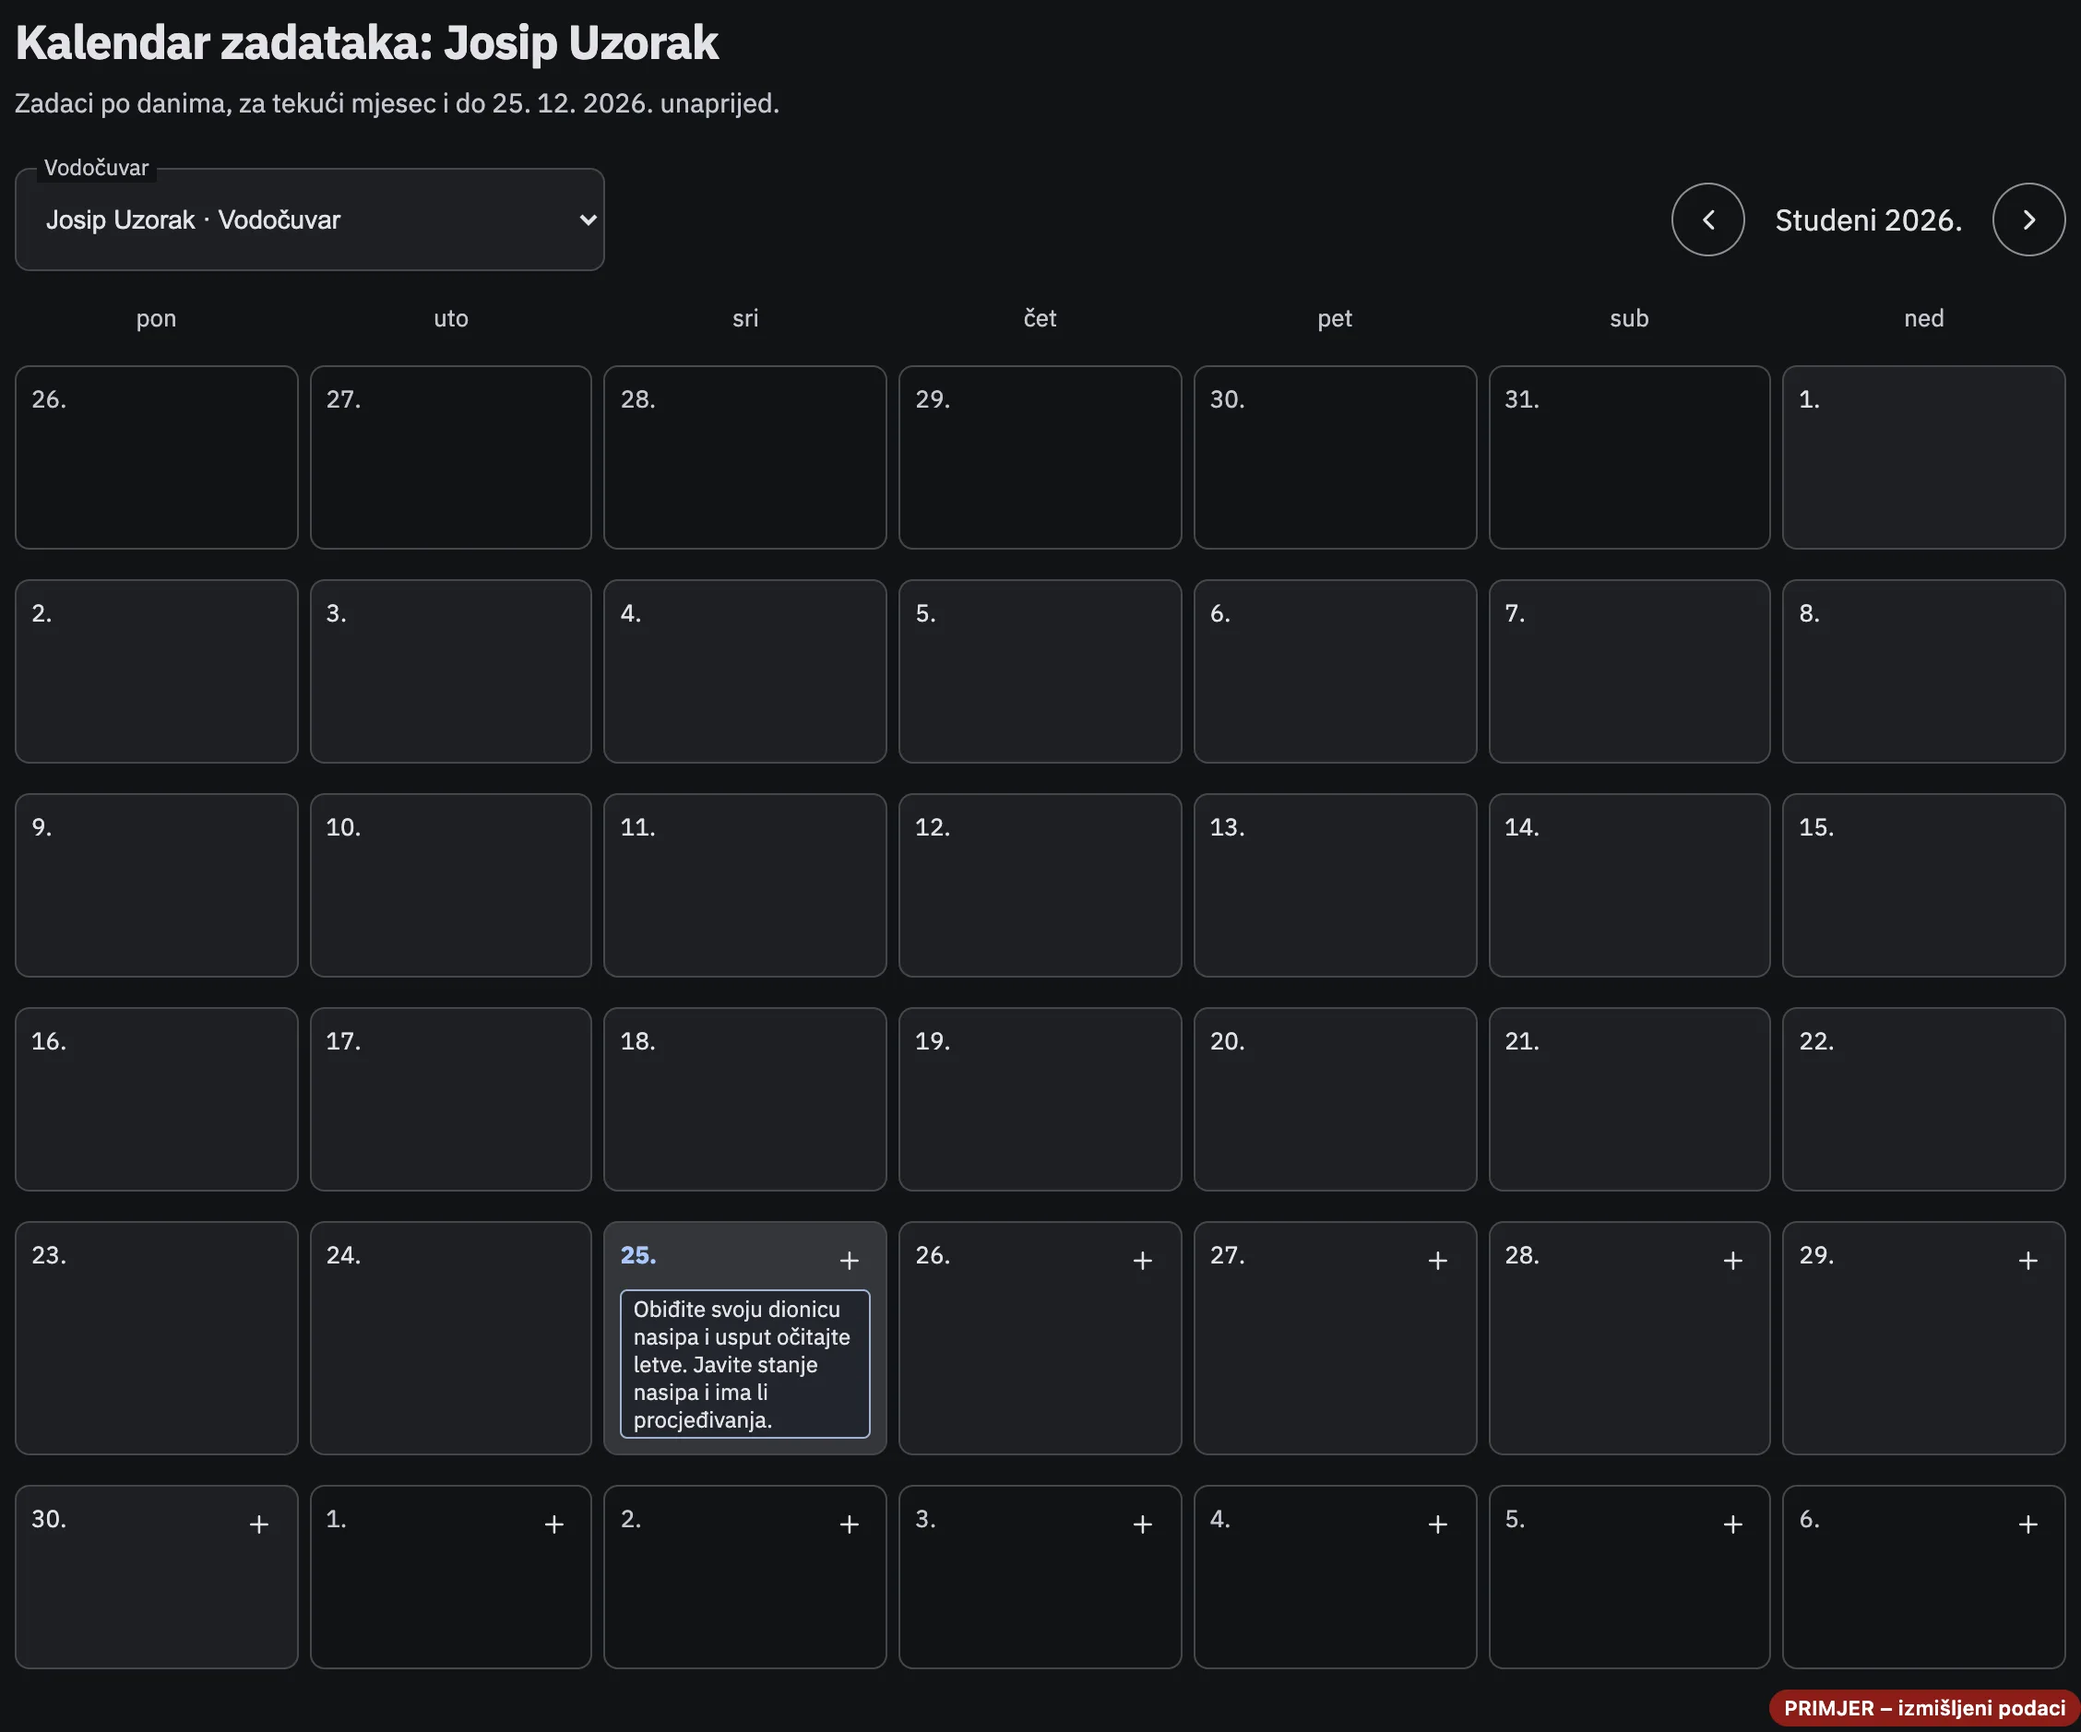
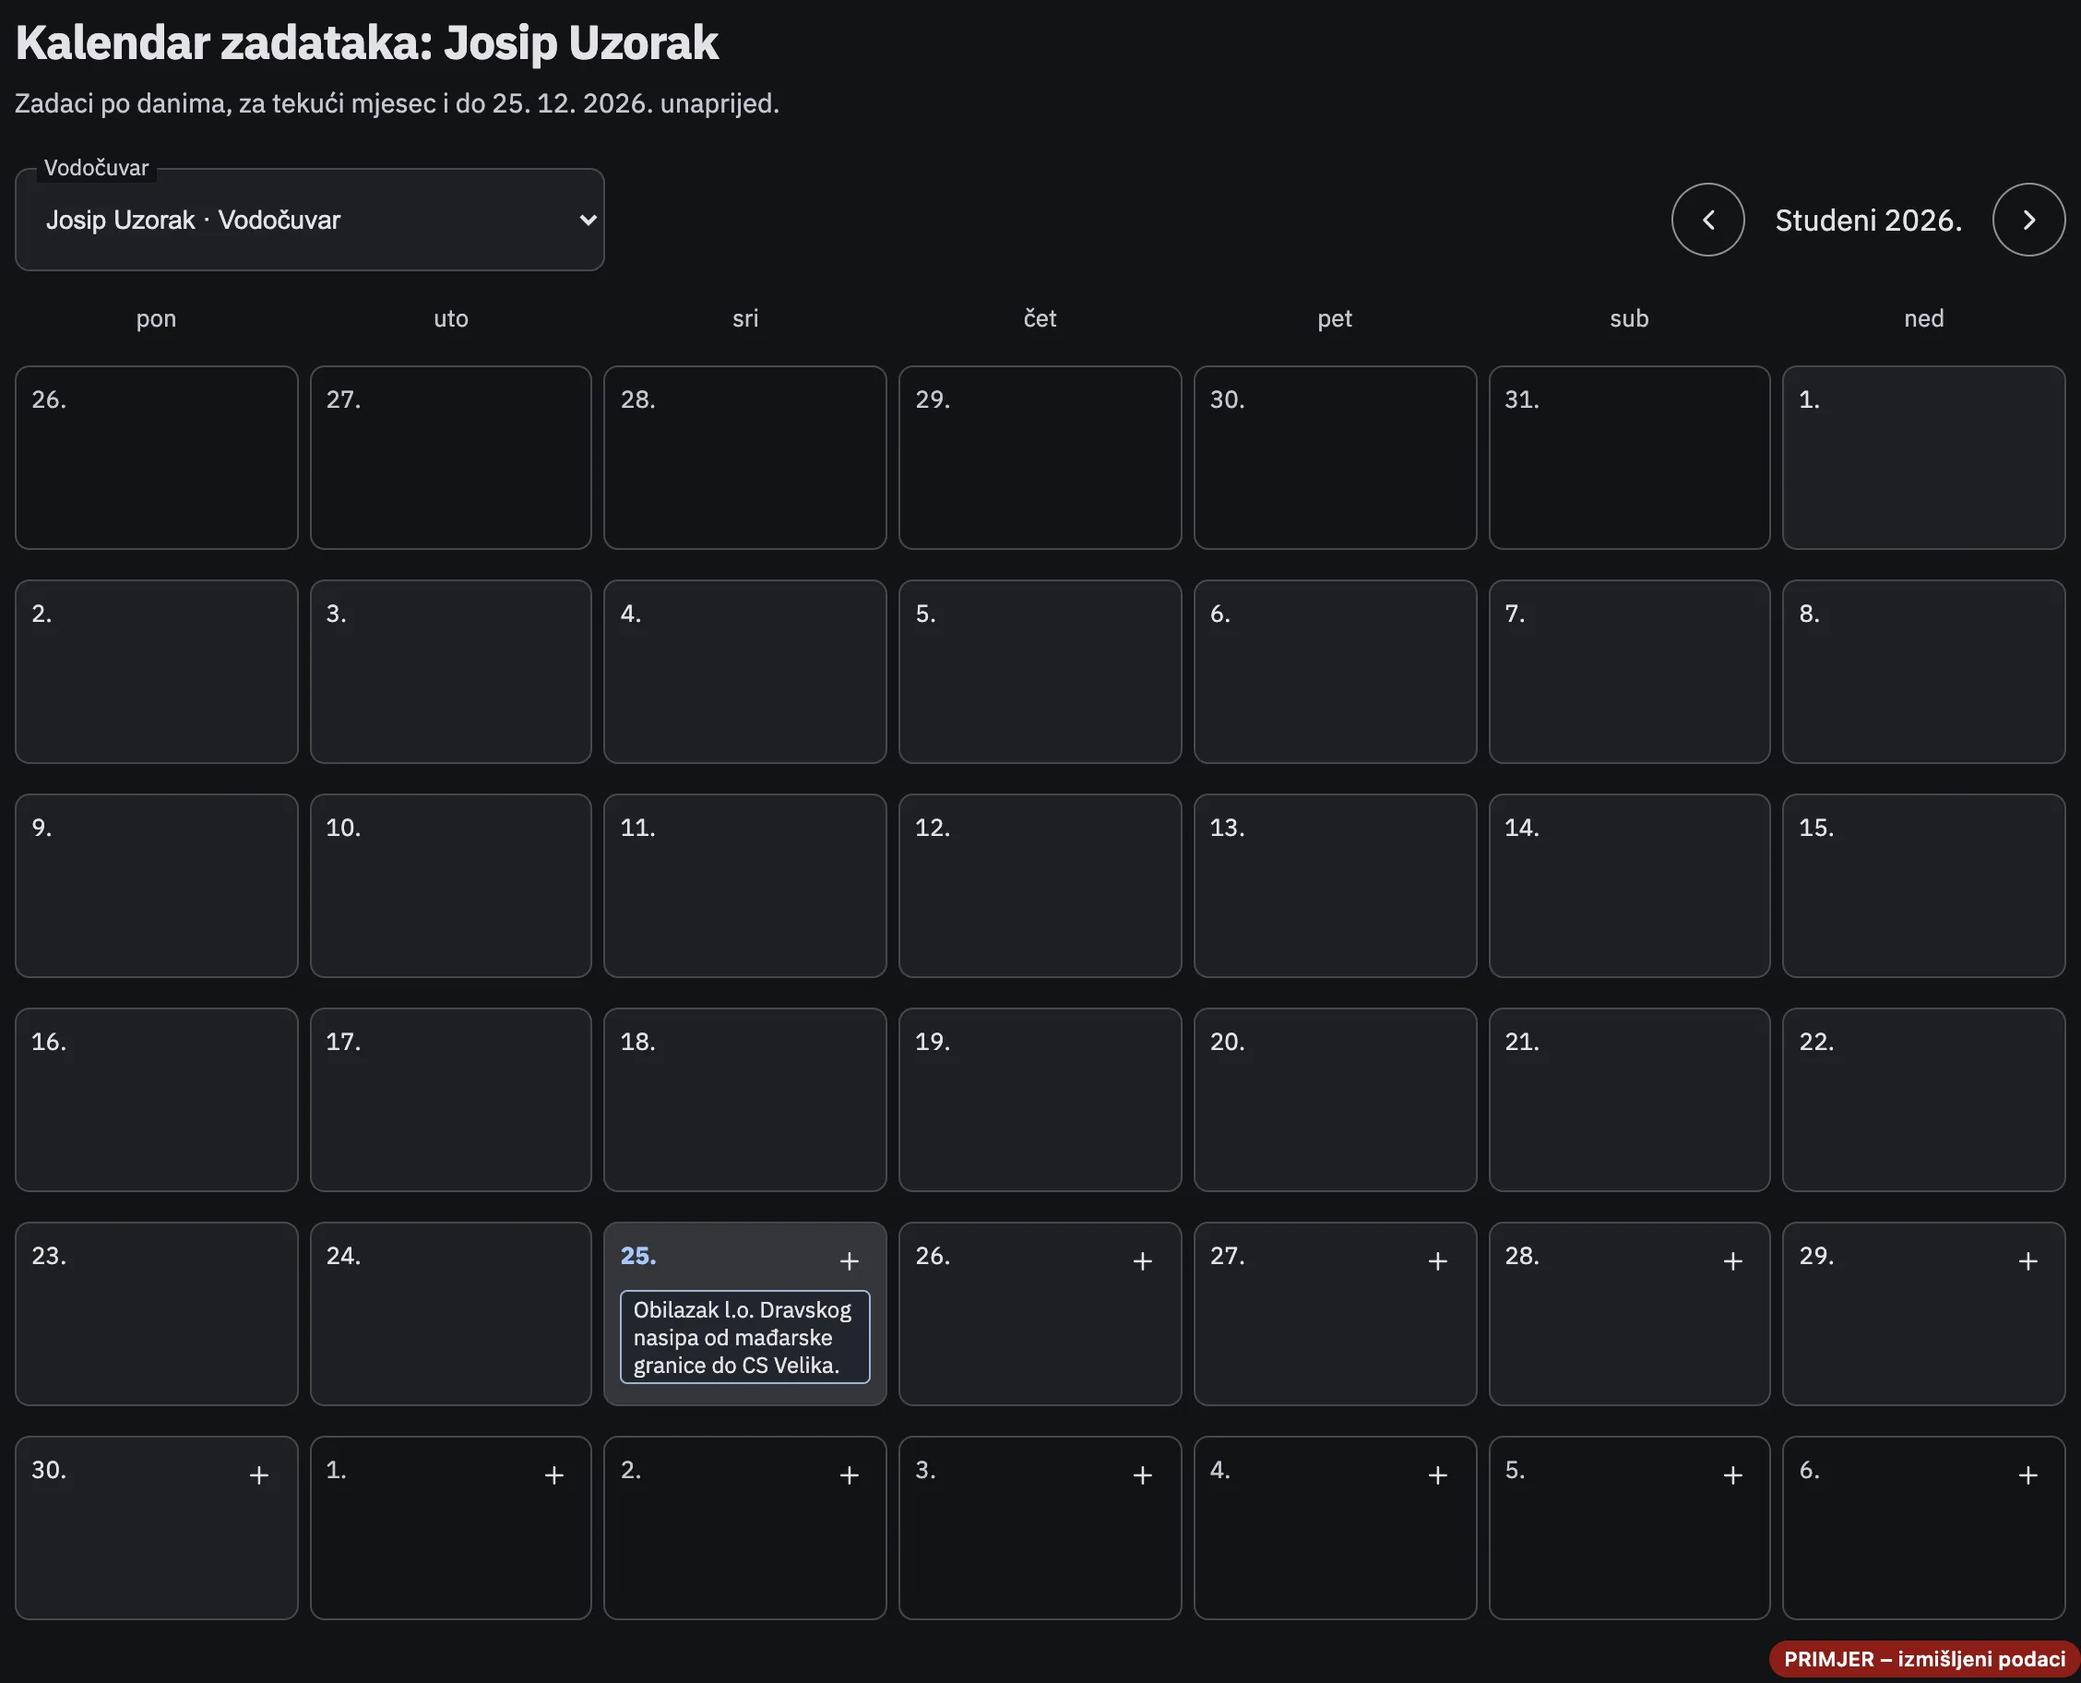
Pomoć, Vodočuvarski dnevnik: primjer zadatka s terena
Primjer zadatka na slikama i u tekstu sad je stvaran nalog: Obilazak l.o.
Dravskog nasipa od mađarske granice do CS Velika. Uz to stoji da se letve
uz put zadatka očitavaju i upisuju.

diff --git a/web/templates/pomoc.html b/web/templates/pomoc.html
@@ -1823,23 +1823,24 @@
         Vodostaje koje ste taj dan očitali ne prepisujete: upisuju se sami.</li>
       <li>Na kraju dana pritisnite <em>Potpiši i predaj</em>.</li>
     </ol>
-    {{template "pomocSlika" (list "vodocuvar-naslovna" "Naslovna vodočuvara na mobitelu: kartica Dnevni list s gumbom Otvori list, a ispod kartica Zadaci rukovoditelja s jednim zadatkom, obilaskom dionice." "359")}}
-    {{template "pomocSlika" (list "vodocuvar-list-vrh" "Dnevni list u pisanju na mobitelu: početak rada 07:00, svršetak 15:00, vremenske prilike, a pod Naredbe rukovoditelja zadatak s označenim obavljeno i upisom što je napravljeno." "359")}}
+    {{template "pomocSlika" (list "vodocuvar-naslovna" "Naslovna vodočuvara na mobitelu: kartica Dnevni list s gumbom Otvori list, a ispod kartica Zadaci rukovoditelja sa zadatkom Obilazak l.o. Dravskog nasipa od mađarske granice do CS Velika." "359")}}
+    {{template "pomocSlika" (list "vodocuvar-list-vrh" "Dnevni list u pisanju na mobitelu: početak rada 07:00, svršetak 15:00, vremenske prilike, a pod Naredbe rukovoditelja zadatak obilaska Dravskog nasipa s označenim obavljeno i upisom što je napravljeno." "359")}}
     <p><em>Spremi</em> sprema list kao nacrt, pa ga tijekom dana možete dopunjavati.
       <em>Potpiši i predaj</em> list elektronički potpisuje vašim ključem; <em>Lozinka za
       potpis</em> ga otključava i ne sprema se. Predan list više se ne mijenja. Ako predaja nije
       dopuštena, npr. jer fali opis rada ili zadatak nije obavljen a nije obrazložen zašto,
       upisano ostaje spremljeno kao nacrt, a poruka kaže što treba dopuniti.</p>
     {{template "pomocSlika" (list "vodocuvar-list-dno" "Dno dnevnog lista na mobitelu: upisan opis radnih aktivnosti, prazna posebna zapažanja, rečenica da se današnji vodostaji upisuju sami, te gumbi Potpiši i predaj i Spremi." "359")}}
-    <p><strong>Zadaci i kalendar.</strong> Zadatak je nalog rukovoditelja za određeni dan: npr.
-      obilazak dionice, pregled objekta ili očitanje letava usput. Zadatak koji nije obavljen, a
+    <p><strong>Zadaci i kalendar.</strong> Zadatak je nalog rukovoditelja za određeni dan, npr.
+      <em>Obilazak l.o. Dravskog nasipa od mađarske granice do CS Velika.</em> Letve uz put
+      zadatka očitajte i upišite. Zadatak koji nije obavljen, a
       označite da se prenosi, uz obrazloženje prelazi na sljedeći list.</p>
     <p>Kalendar zadataka pokazuje zadatke po danima. Zadatak stoji na dnevnom listu od planiranog
       dana, a neobavljeni se prenosi dalje. Tko smije zadavati zadatke, zadaje ih na + u danu. Prošli
       dani i dani dalje od 30 dana nemaju +, a vodočuvar koji vodi samo svoju knjigu nema ga uopće.</p>
     <p>Na mobitelu je kalendar popis dana: danas i tri sljedeća dana, a ostali su sklopljeni. Dan
       sa zadatkom uvijek se vidi. Prošli dani otvaraju se sami kad u njima ima otvoren zadatak.</p>
-    {{template "pomocSlika" (list "vodocuvar-kalendar" "Kalendar zadataka vodočuvara na računalu, kako ga vidi rukovoditelj: mjesec po danima, na današnjem danu zadatak obilaska dionice, a od danas do 30 dana unaprijed uz svaki dan + za novi zadatak." "736")}}
+    {{template "pomocSlika" (list "vodocuvar-kalendar" "Kalendar zadataka vodočuvara na računalu, kako ga vidi rukovoditelj: mjesec po danima, na današnjem danu zadatak obilaska Dravskog nasipa, a od danas do 30 dana unaprijed uz svaki dan + za novi zadatak." "736")}}
     <p><strong>Predaja i ovjera.</strong></p>
     <p>Vodočuvar list predaje osobnim elektroničkim potpisom, a rukovoditelj branjenog područja
       ili njegov zamjenik ga zatim ovjerava svojim. List ovjerava i onaj tko je vodočuvaru zadao
